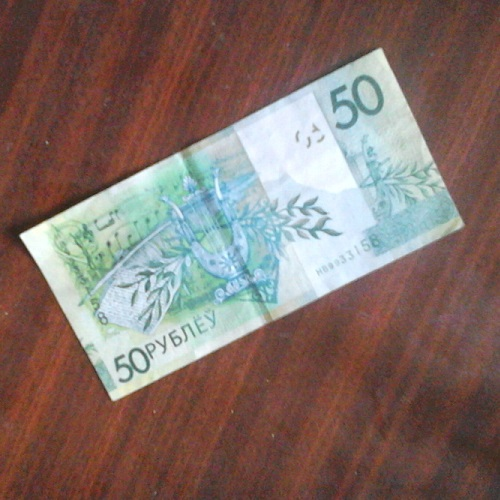
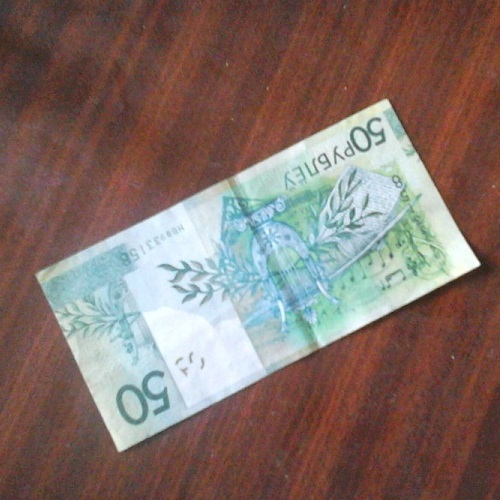
added New Intelectual Rotator

diff --git a/src/by/bsuir/misoi/regions/Rotator.java b/src/by/bsuir/misoi/regions/Rotator.java
@@ -1,6 +1,9 @@
 package by.bsuir.misoi.regions;
 
+import java.awt.Color;
 import java.awt.image.BufferedImage;
+
+import by.bsuir.misoi.entity.Point;
 
 /**
  * Created by NE User-PC on 12.10.2016.
@@ -20,9 +23,9 @@ public class Rotator {
     
     public BufferedImage baby_spin_me_right_n_round()
     {   
-    	float angle = getRotateAngle();
+    	double angle = getRotateAngle();
     	BufferedImage output_img = new BufferedImage(width,
-    			height, 5);
+    			height, original.getType());
     	
         for(int i=1;i<width-1;i++){
             for(int j=1;j<height-1;j++){
@@ -53,10 +56,39 @@ public class Rotator {
      * 2.0944f   = 120*
      * 6.28319f  = 360*
      */
-    private float getRotateAngle(){
+    private double getRotateAngle(){
     	// calculating 4 corners
-    	float angle = 0.785398f;
-    	return angle;
+    	
+    	// KAK ZE YA TEBYA NENAVIZY !!!
+    	Point p1 = null, p2 = null, p3 = null, p4 = null;
+    	p1 = new Point();
+    	p2 = new Point();
+    	p3 = new Point();
+    	p4 = new Point();
+    	p1.x = 99999;
+    	p2.y = 99999;
+    	p3.y = -99999;
+    	p4.x = -99999;
+  
+        for(int i=0; i<width; i++){
+            for(int j=0; j<height; j++){
+            	if ( mask[i][j] != -1 ){
+            		if ( i < p1.x ){ p1.x = i; p1.y = j; }
+            		if ( j < p2.y ){ p2.x = i; p2.y = j; }
+            		if ( j > p3.y ){ p3.x = i; p3.y = j; }
+            		if ( i > p4.x ){ p4.x = i; p4.y = j; }
+            	}
+            }
+        }
+        
+        if ( Math.sqrt((p3.x - p1.x)*(p3.x - p1.x) + (p3.y - p1.y)*(p3.y - p1.y)) > 
+        		Math.sqrt((p4.x - p3.x)*(p4.x - p3.x) + (p4.y - p3.y)*(p4.y - p3.y)))
+        {
+        	return Math.atan2((p3.y - p1.y), (p3.x - p1.x));
+        }
+        else
+        {
+        	return Math.atan2(p4.y - p3.y , p4.x - p3.x);
+        }
     }
-    
 }

diff --git a/src/Main.java b/src/Main.java
@@ -21,8 +21,7 @@ public class Main {
         BufferedImage area = wildfire.findRegions();
         imageHelper.write("result_wild",area);
         
-        int[][] mask = wildfire.getMask();
-        Rotator rotate = new Rotator(original, mask);
+        Rotator rotate = new Rotator(original, wildfire.getMask());
         BufferedImage out = rotate.baby_spin_me_right_n_round();
         imageHelper.write("result_rotator",out);
         

diff --git a/src/by/bsuir/misoi/image/ImageIml.java b/src/by/bsuir/misoi/image/ImageIml.java
@@ -14,7 +14,7 @@ public class ImageIml implements Iimage {
     public BufferedImage read() throws IOException {
 //        Scanner in = new Scanner(System.in);
 //        String name = in.nextLine();
-        File file = new File("t.jpg");
+        File file = new File("t1.jpg");
 
         return ImageIO.read(file);
     }
